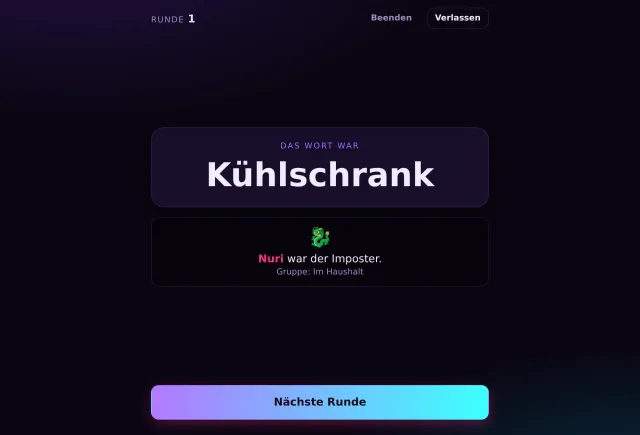
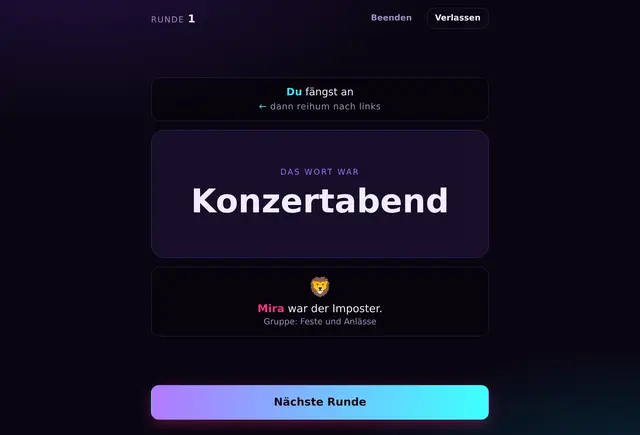
Imposter: Anleitung, Bilder und eine Browserprobe fuer den Deckel
Zum Umbau von /imposter/ (zugedeckte Karte, Ansage, stabile Plaetze, kein
Hilfswort mehr): die Rundenanleitung auf der Spieleuebersicht nachgezogen,
frische Schnappschuesse, und `werkzeug/pruefe-imposter.mjs`.

Die Browserprobe misst nicht, was auf dem Bildschirm *steht*, sondern was man
*sieht*: sie fragt mit `elementFromPoint`, wer an der Stelle des Wortes obenauf
liegt, schiebt den Deckel mit dem Zeiger hoch, laesst wieder los und schaut
nach. Dazu die Ansage, die bei allen dreien dieselbe sein muss.

Changed region(s): [[0.2188, 0.3287, 0.7812, 0.7471], [0.4062, 0.1793, 0.5938, 0.269]]

diff --git a/spiele/index.html b/spiele/index.html
@@ -848,9 +848,11 @@ footer a { color: inherit; }
          ist. -->
     <template class="ablauf">
         <li>Raum aufmachen, Link weitergeben – drei bis zehn Leute an einem Tisch, jeder mit eigenem Handy. Kein Bereitmelden: wer im Raum ist, ist dabei.</li>
-        <li>Der Host tippt auf „Austeilen“. Alle bekommen dasselbe Wort, zum Beispiel „Schleifpapier“. Einer bekommt es nicht – der sieht nur, dass er der Imposter ist.</li>
-        <li>Ist das <b>Hilfswort</b> in der Lobby angeschaltet, bekommt der Imposter dazu ein einzelnes Wort aus derselben Gruppe – nie das gesuchte. Ausgeschaltet hat er gar nichts.</li>
-        <li>Reihum sagt jeder laut ein Wort dazu. Wer anfängt und wie herum es geht, macht ihr selbst aus – das Handy sagt niemandem, dass er dran ist.</li>
+        <li>Handy weglegen, Anruf, leerer Akku? Der Platz bleibt reserviert. Wer zurückkommt, ist wieder derselbe – mit derselben Karte, in derselben Runde.</li>
+        <li>Der Host tippt auf „Austeilen“. Alle bekommen dasselbe Wort, zum Beispiel „Schleifpapier“. Einer bekommt es nicht – der sieht nur, dass er der Imposter ist. Mehr bekommt er auch nicht.</li>
+        <li>Die Karte liegt <b>zugedeckt</b>: zum Ansehen den Deckel hochschieben und halten, beim Loslassen fällt er wieder zu. Das Handy kann offen liegen bleiben – anlassen ist sogar besser, sonst reißt die Verbindung.</li>
+        <li>Oben steht, <b>wer anfängt und wie herum es geht</b>. Alle lesen denselben Satz; das Handy sagt trotzdem niemandem, dass er dran ist – gezählt wird am Tisch.</li>
+        <li>Reihum sagt jeder laut ein Wort dazu.</li>
         <li>Nicht zu deutlich, sonst weiß der Imposter gleich Bescheid – aber auch nicht zu vage, sonst hält man dich selbst für ihn.</li>
         <li>Am Ende zeigt ihr aufeinander. Laut, gleichzeitig, wie ihr wollt. Das Handy stimmt nicht ab und zählt keine Punkte.</li>
         <li>Der Host tippt auf „Auflösen“: alle sehen, wer es war und wie das Wort hieß. Dann teilt er neu aus.</li>

diff --git a/doku/pruefen.md b/doku/pruefen.md
@@ -22,6 +22,7 @@ node pruefe-startseite.mjs     # alle Kacheln, alle Dialoge, alle Bilder
 node pruefe-flasche.mjs        # zeigt die Flasche wirklich auf die Person?
 node pruefe-cubes.mjs          # steht in jedem Quadrat die richtige Zahl?
 node pruefe-wortleger.mjs      # trifft man 13 Spalten auf einem Handy?
+node pruefe-imposter.mjs      # Imposter: liegt der Deckel wirklich auf dem Wort? (eigene Fassung, Port 8086)
 node pruefe-statisch.mjs       # bauen sich die vier Spiele ohne Server auf?
 node pruefe-statisch-tief.mjs  # … und was danach kommt: Neuladen, Uhr, Wortlisten
 node pruefe-bugreport.mjs      # kennt der Bugreport jedes Spiel aus spiele.json?
@@ -49,6 +50,11 @@ cd /var/www/html/paare
 PORT=8456 HOST=127.0.0.1 deno run --allow-net --allow-read --allow-env --allow-sys server.js &
 cd /root/werkzeug-screenshots && node pruefe-paare-tippen.mjs   # Tipp bricht die Wartezeit ab
 ss -tlnp | grep ':8456 '   # danach ueber den Port beenden, nie per pkill
+
+cd /var/www/html/imposter
+PORT=8086 HOST=127.0.0.1 deno run --allow-net --allow-read --allow-env --allow-sys server.js &
+cd /root/werkzeug-screenshots && node pruefe-imposter.mjs   # Deckel, Ansage, Rollen
+ss -tlnp | grep ':8086 '   # danach ueber den Port beenden, nie per pkill
 ```
 
 Ohne Browser, aus `/var/www/html` heraus:
